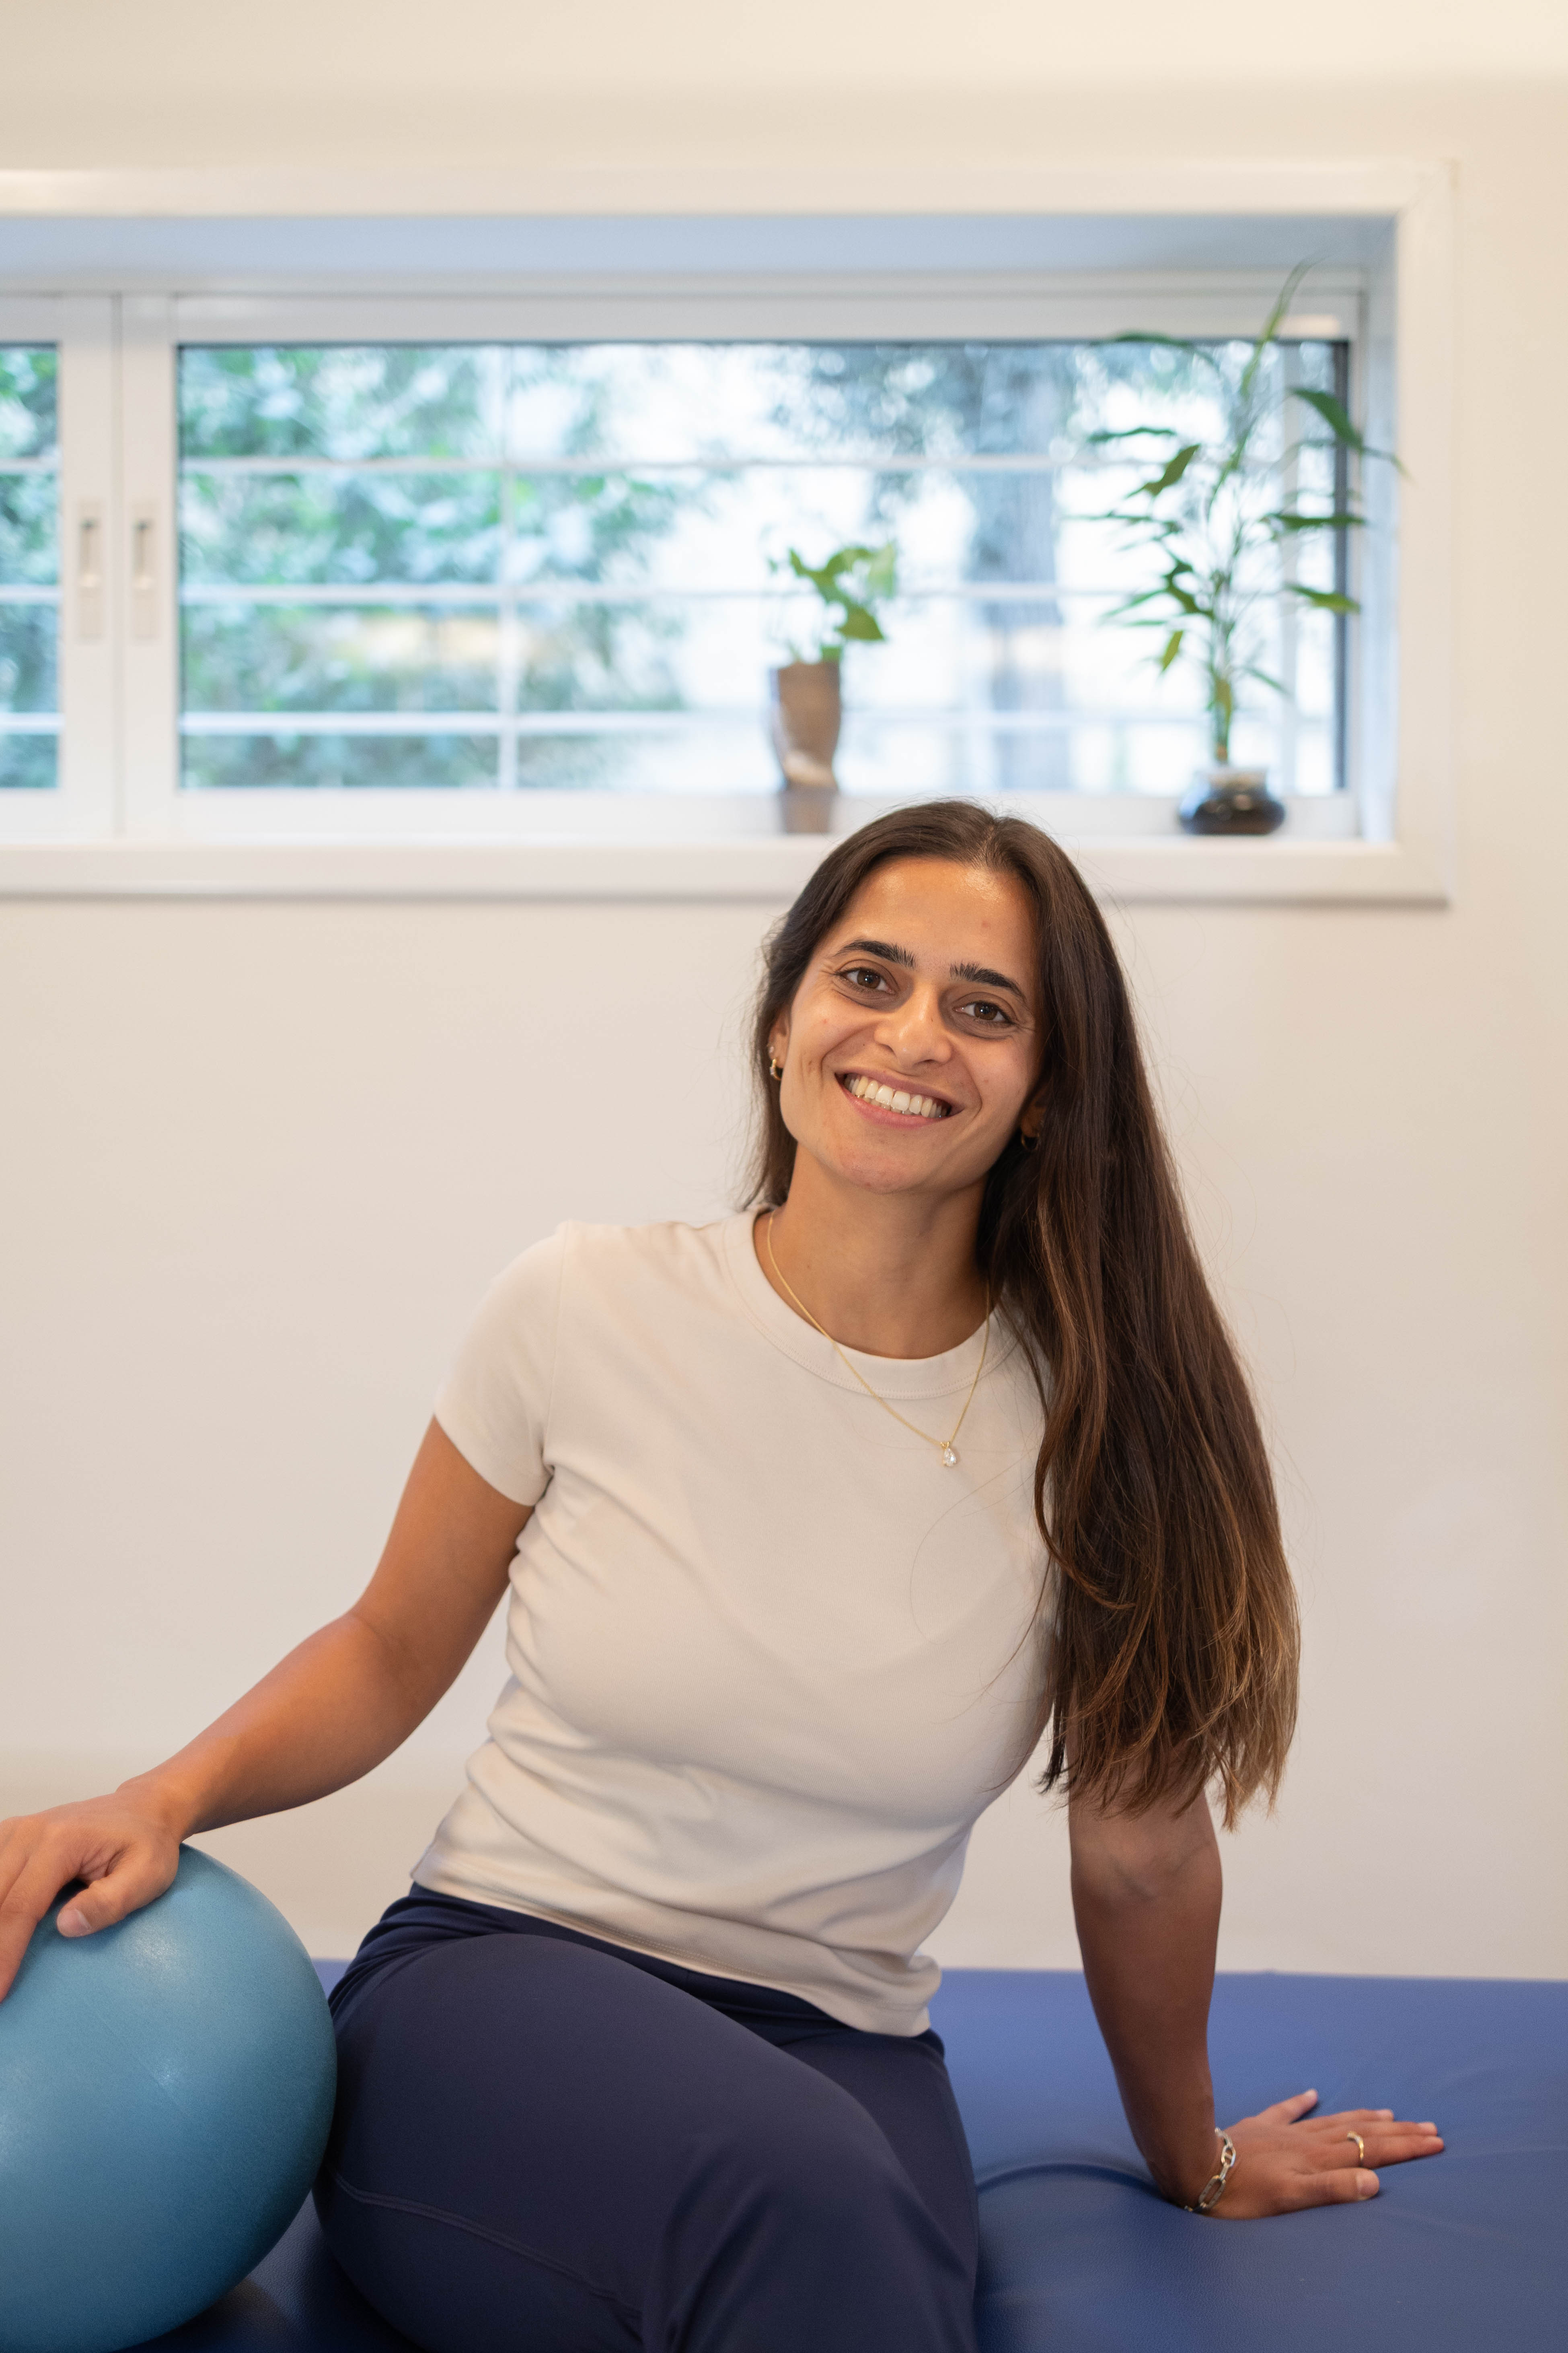
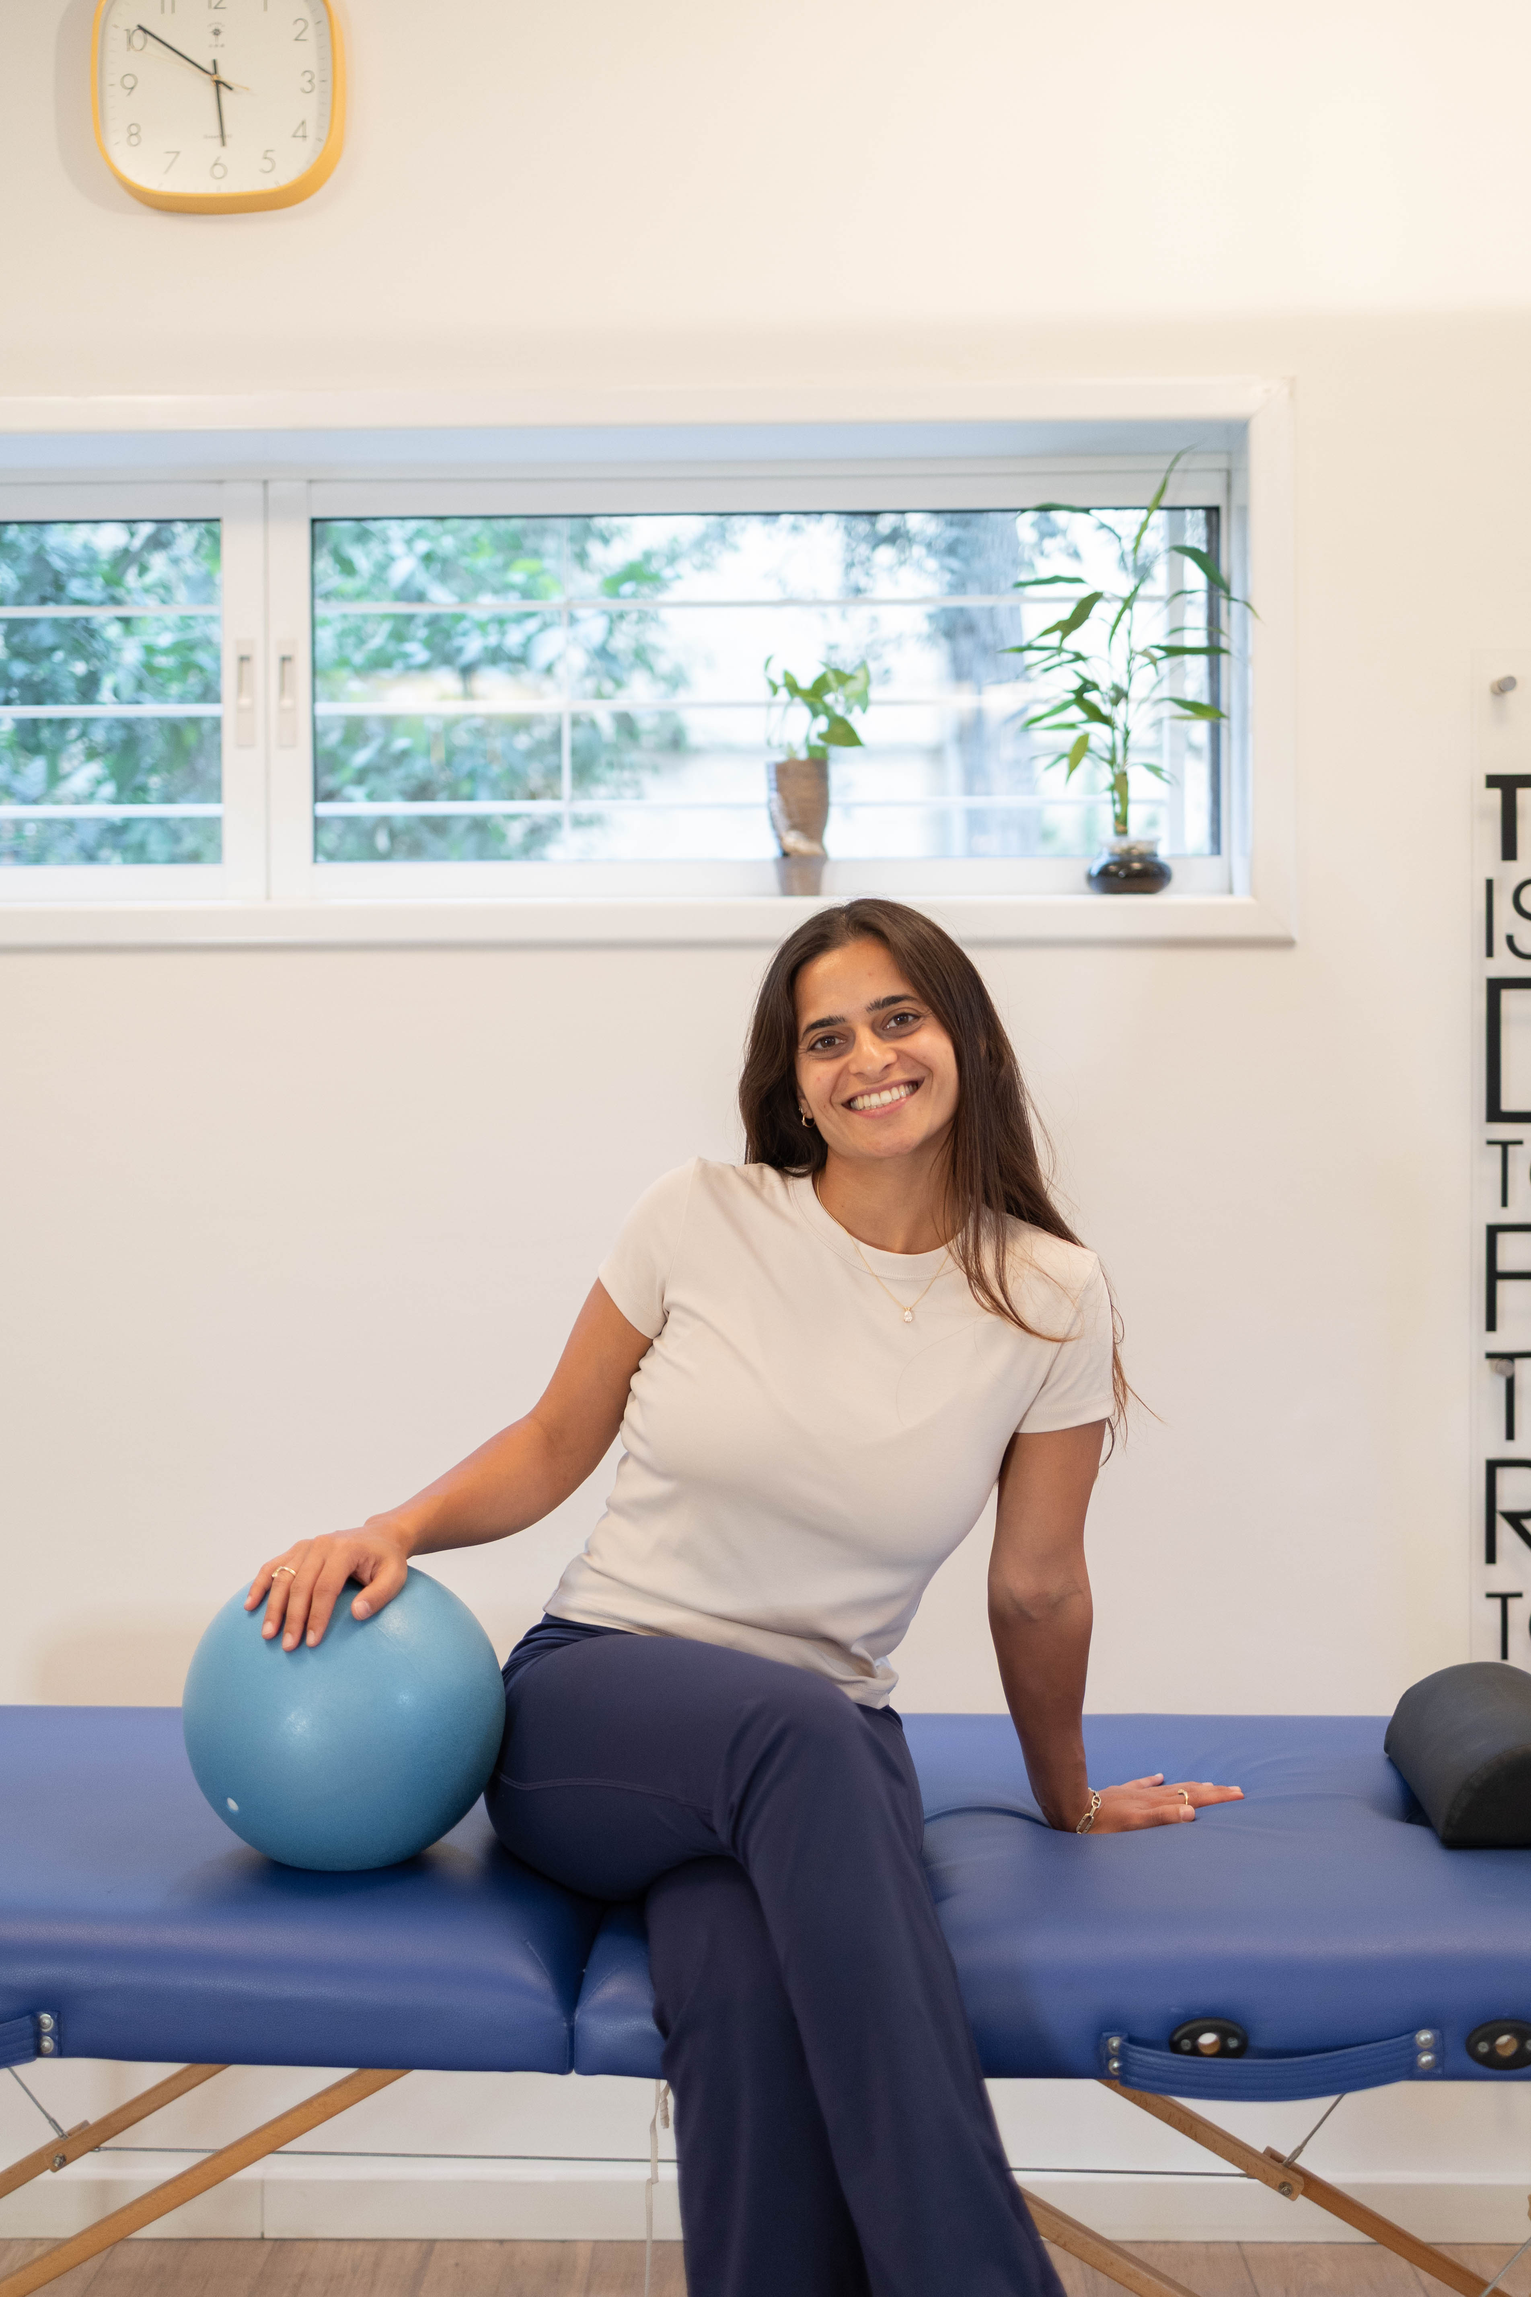
feat: new About photo and an older patient on the preventive card
About now uses 104A8007 instead of the 104A8009 close-up: a wider frame
that shows the clinic around Gal, cropped at 45% so the window sits above
her and the ball and bed below. The face is smaller and a sliver of the
wall poster stays at one edge, which a portrait source cannot crop away.

The preventive card now shows 104A7164, an older man doing a seated arm
exercise with Gal, in place of 104A7864. The card's copy is about posture
and personalised exercise, the three cards now span a young patient, an
athlete and an older adult, and it ends the sports and preventive cards
both showing a resistance band side by side. Cropped at 40% so his face
clears the top edge.

diff --git a/CLAUDE.md b/CLAUDE.md
@@ -108,8 +108,8 @@ build-time equivalent - `position` only takes named values (`top`/`centre`/
 the full image, so the arithmetic only closes if the whole portrait ships.
 
 Today that applies to `Hero.astro` (`object-[center_40%]`), `About.astro`
-(`object-[center_85%]`) and two of the three service cards in `Services.astro`
-(62% and 38%; the third is `object-center`). All four ship without `height`.
+(`object-[center_45%]`) and two of the three service cards in `Services.astro`
+(62% and 40%; the third is `object-center`). All four ship without `height`.
 `Services.astro` derives `height` from `imagePosition`, so a card that moves to
 or from `object-center` picks the right mode by itself.
 
